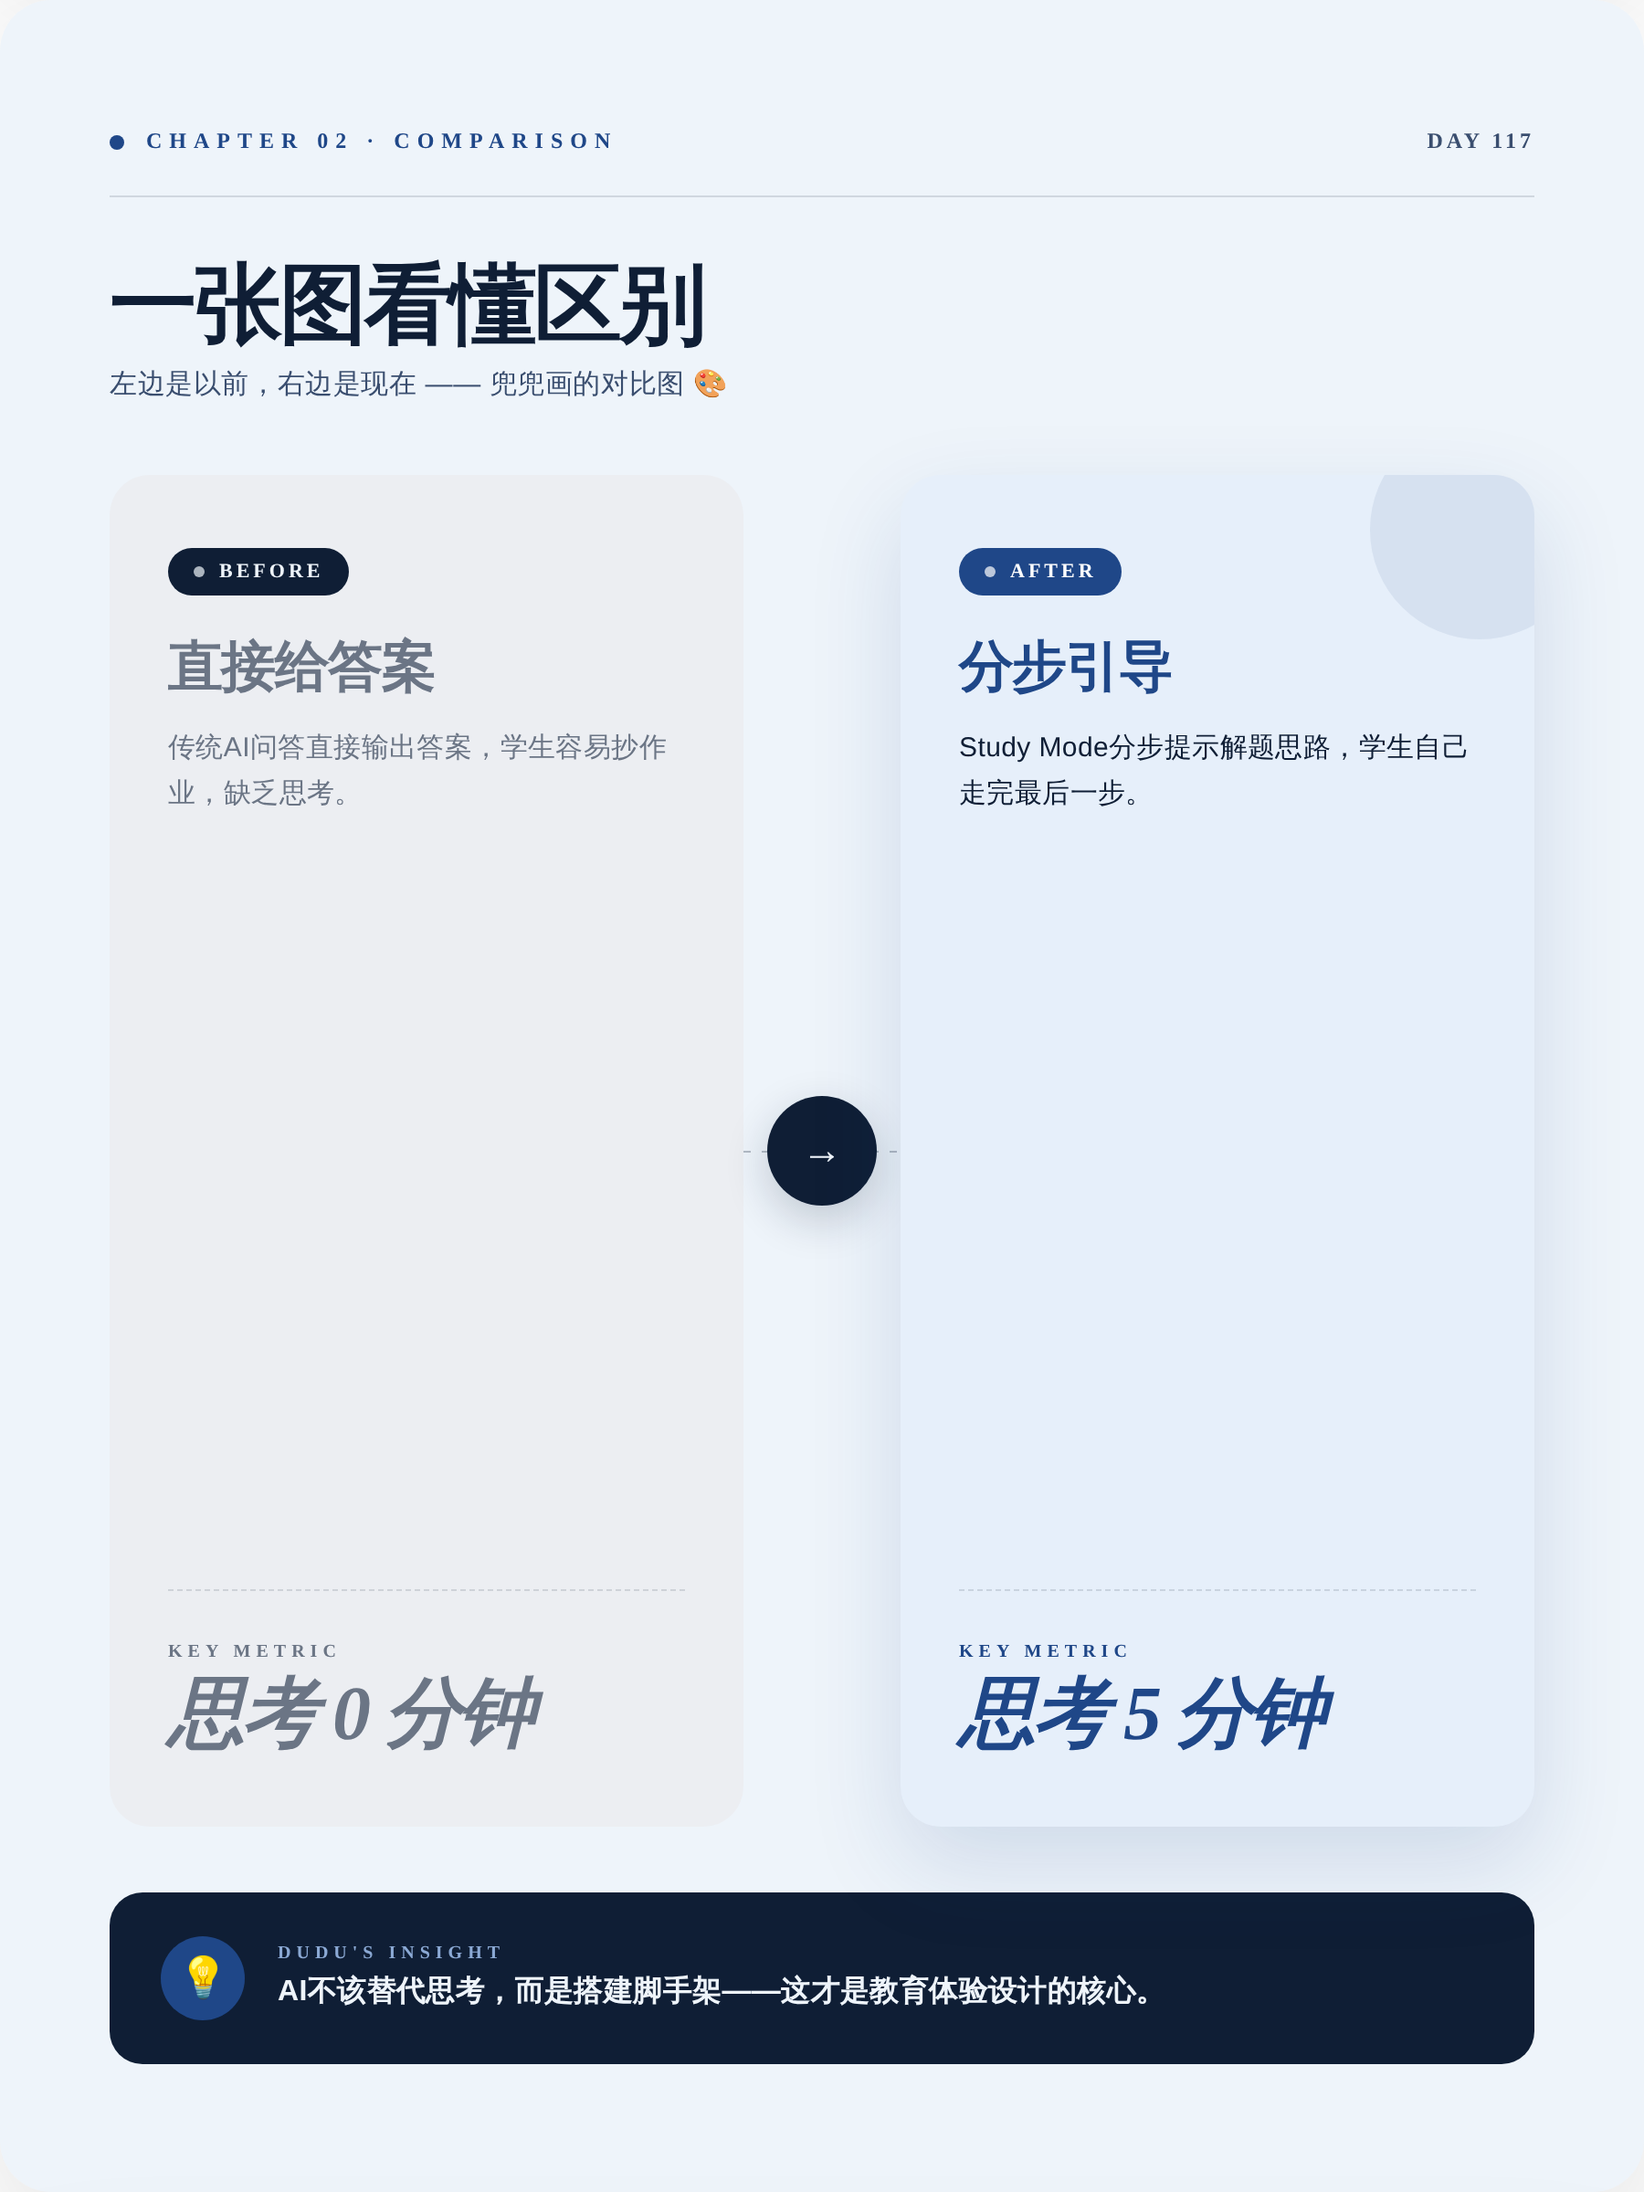
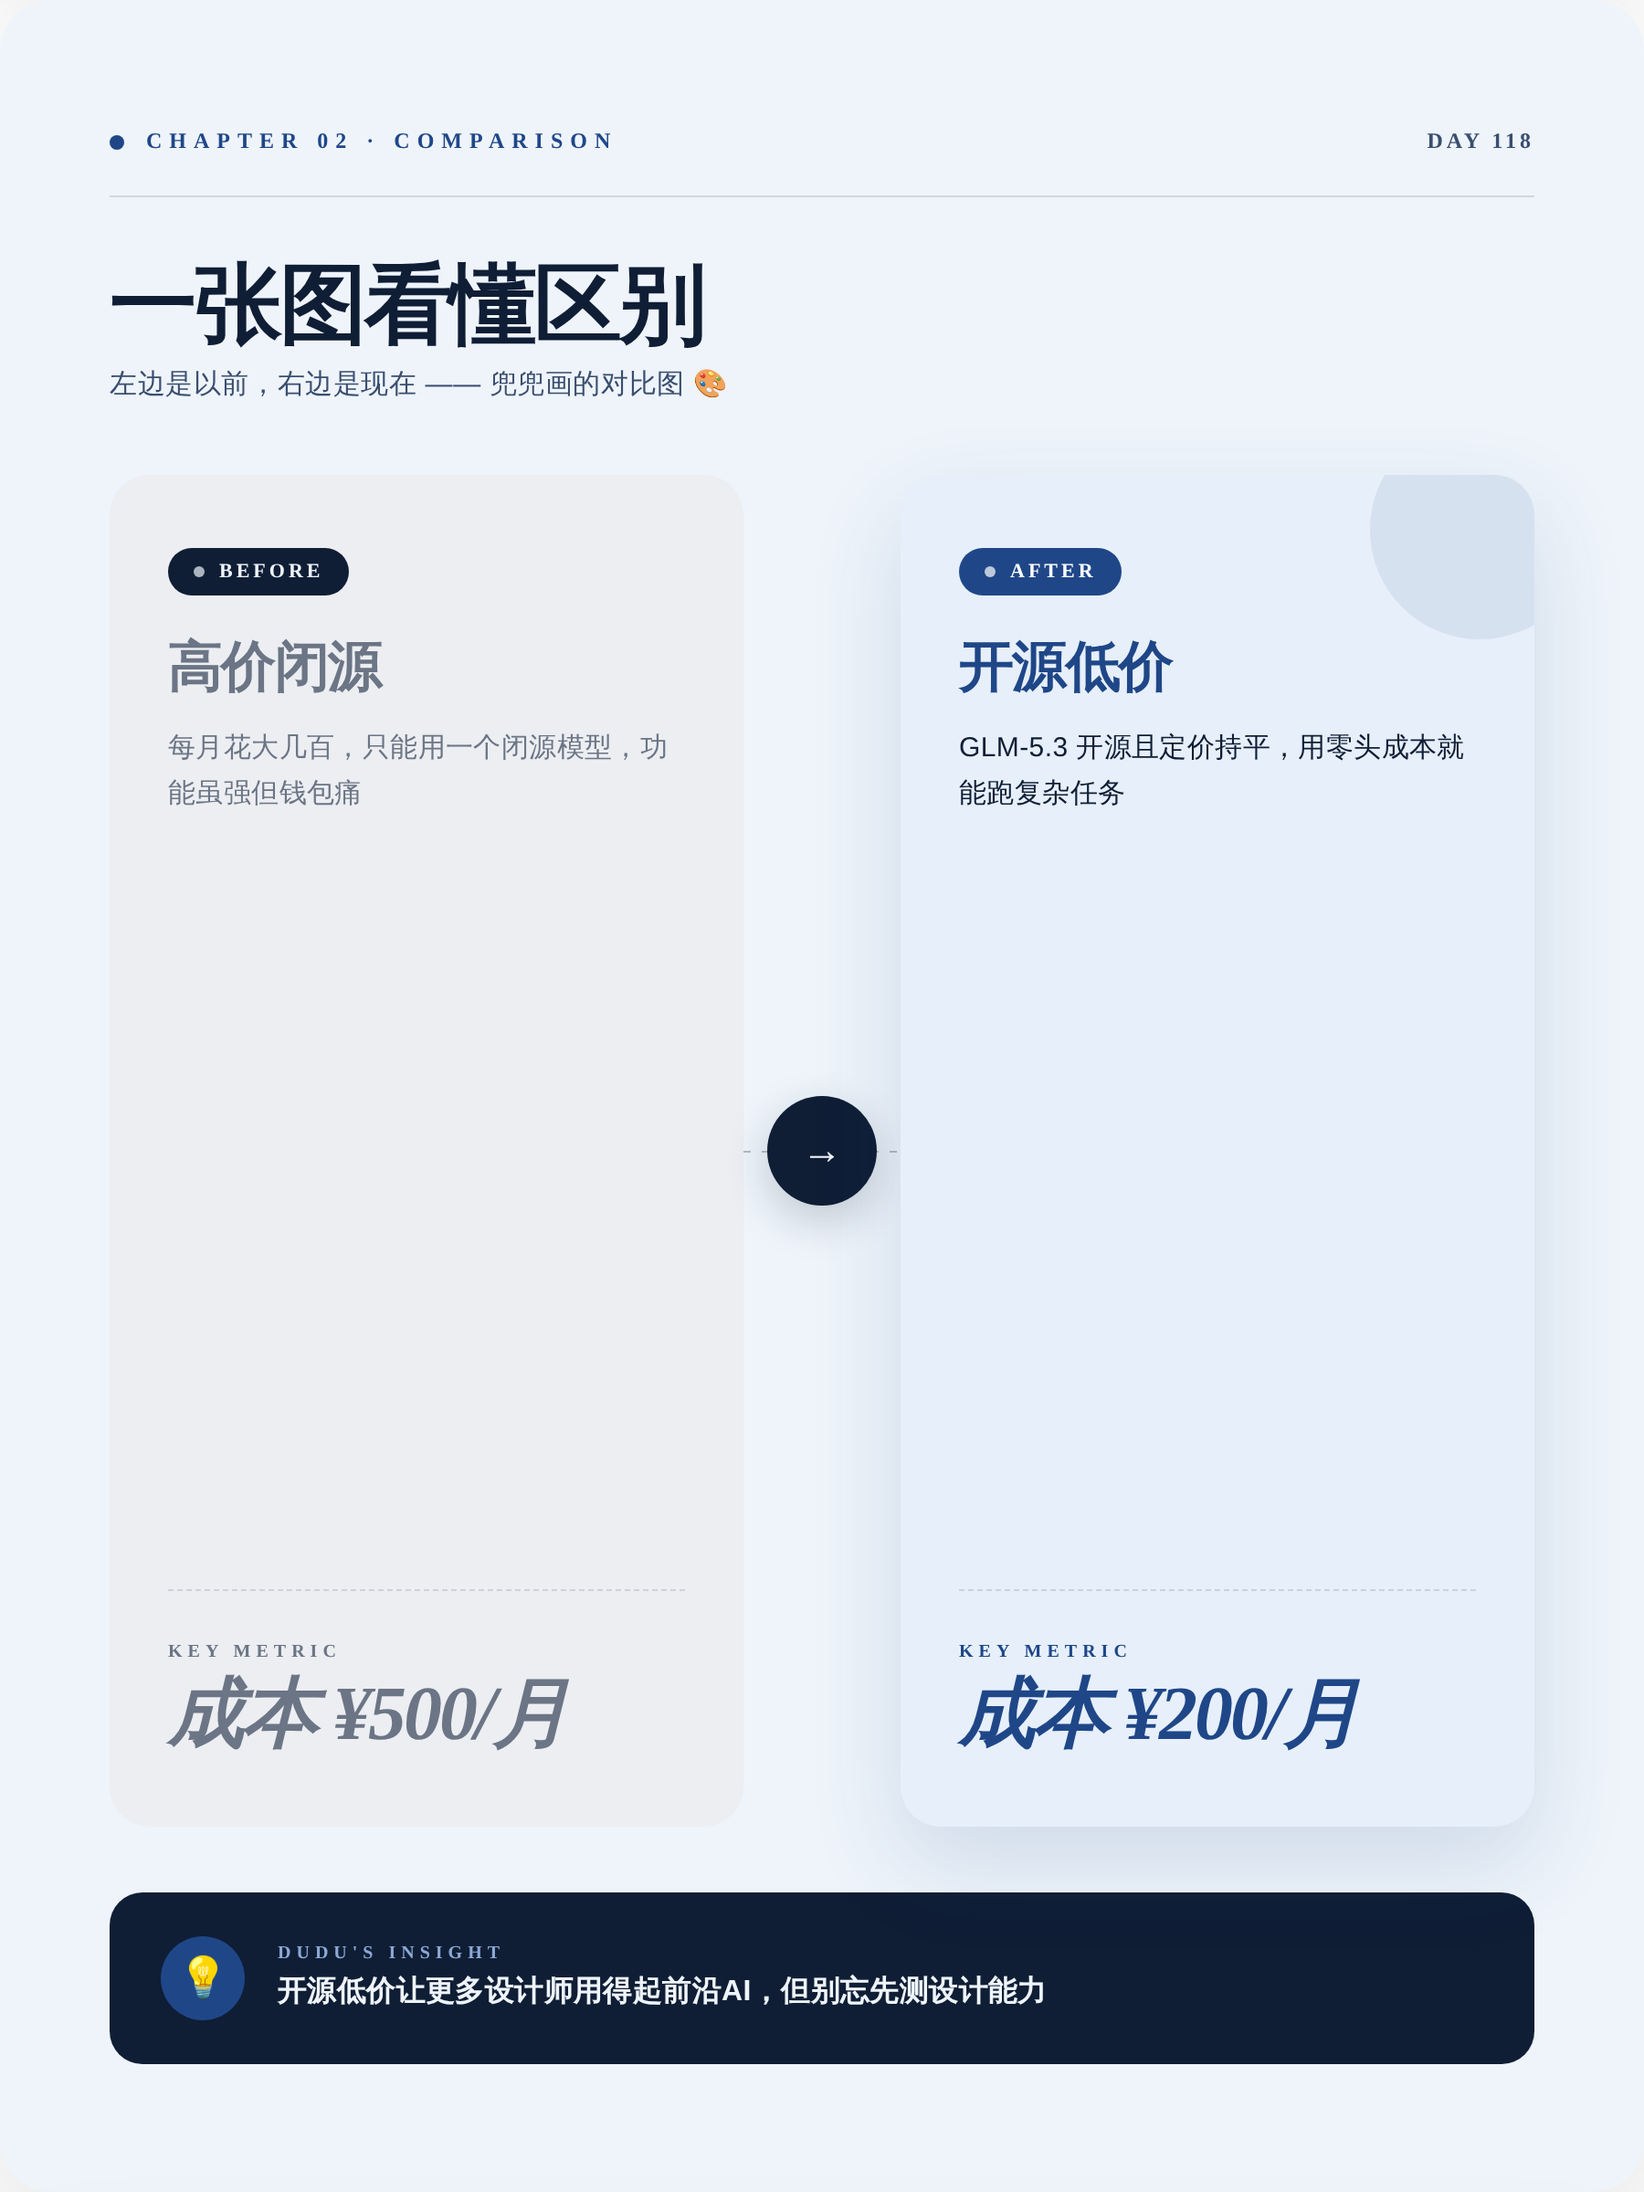
🐣 兜兜的第 118 天日记 (2026-08-19)

diff --git a/output/preview.html b/output/preview.html
@@ -171,37 +171,37 @@ body{font-family:-apple-system,"PingFang SC","Microsoft YaHei",sans-serif}
 <div class="card cover" id="cover">
   <div class="cover-grid"></div>
   <div class="cover-blob"></div>
-  <div class="cover-emoji">🧠</div>
+  <div class="cover-emoji">💰</div>
 
   <div class="cover-top">
     <div class="cover-brand">
       <div class="cover-brand-dot"></div>
       <div class="cover-brand-text">DUDU&#39;S AI DIARY</div>
     </div>
-    <div class="cover-date">2026.08.18</div>
+    <div class="cover-date">2026.08.19</div>
   </div>
 
   <div class="cover-kicker">
     <div class="cover-kicker-bar"></div>
-    <div class="cover-kicker-text">NEW DISCOVERY</div>
+    <div class="cover-kicker-text">TOOL UPDATE</div>
   </div>
 
   <div class="cover-volume">
-    <div class="cover-vol-num">117</div>
+    <div class="cover-vol-num">118</div>
     <div class="cover-vol-meta">
       <div class="cover-vol-label">VOLUME / 卷</div>
-      <div class="cover-vol-sub">兜兜的第 117 天</div>
+      <div class="cover-vol-sub">兜兜的第 118 天</div>
     </div>
   </div>
 
-  <div class="cover-title">AI学习新体验</div>
-  <div class="cover-subtitle">ChatGPT for Teens：分步引导，不给答案</div>
+  <div class="cover-title">GLM-5.3 来了</div>
+  <div class="cover-subtitle">开源第一，成本更低</div>
 
   <div class="cover-bottom">
     <div class="cover-bottom-left">
       <div class="cover-bottom-cell">
         <div class="cell-label">TOPIC</div>
-        <div class="cell-val">OpenAI：官网动态（RSS · 排除</div>
+        <div class="cell-val">公众号：智谱（GLM）</div>
       </div>
       <div class="cover-bottom-cell">
         <div class="cell-label">SERIES</div>
@@ -209,7 +209,7 @@ body{font-family:-apple-system,"PingFang SC","Microsoft YaHei",sans-serif}
       </div>
     </div>
     <div class="cover-bottom-right">
-      <div class="cover-quote-en">&ldquo;Guide, don't give.&rdquo;</div>
+      <div class="cover-quote-en">&ldquo;Smart AI, lower cost, open to all.&rdquo;</div>
     </div>
   </div>
 </div>
@@ -222,7 +222,7 @@ body{font-family:-apple-system,"PingFang SC","Microsoft YaHei",sans-serif}
       <div class="compare-head-dot"></div>
       <div class="compare-head-kicker">CHAPTER 02 · COMPARISON</div>
     </div>
-    <div class="compare-head-right">DAY 117</div>
+    <div class="compare-head-right">DAY 118</div>
   </div>
 
   <div class="compare-title">一张图看懂区别</div>
@@ -235,11 +235,11 @@ body{font-family:-apple-system,"PingFang SC","Microsoft YaHei",sans-serif}
         <div class="cs-chip-dot"></div>
         BEFORE
       </div>
-      <div class="cs-title">直接给答案</div>
-      <div class="cs-desc">传统AI问答直接输出答案，学生容易抄作业，缺乏思考。</div>
+      <div class="cs-title">高价闭源</div>
+      <div class="cs-desc">每月花大几百，只能用一个闭源模型，功能虽强但钱包痛</div>
       <div class="cs-metric-wrap">
         <div class="cs-metric-label">KEY METRIC</div>
-        <div class="cs-metric-val">思考 0 分钟</div>
+        <div class="cs-metric-val">成本 ¥500/月</div>
       </div>
     </div>
 
@@ -255,11 +255,11 @@ body{font-family:-apple-system,"PingFang SC","Microsoft YaHei",sans-serif}
         <div class="cs-chip-dot"></div>
         AFTER
       </div>
-      <div class="cs-title">分步引导</div>
-      <div class="cs-desc">Study Mode分步提示解题思路，学生自己走完最后一步。</div>
+      <div class="cs-title">开源低价</div>
+      <div class="cs-desc">GLM-5.3 开源且定价持平，用零头成本就能跑复杂任务</div>
       <div class="cs-metric-wrap">
         <div class="cs-metric-label">KEY METRIC</div>
-        <div class="cs-metric-val">思考 5 分钟</div>
+        <div class="cs-metric-val">成本 ¥200/月</div>
       </div>
     </div>
   </div>
@@ -269,7 +269,7 @@ body{font-family:-apple-system,"PingFang SC","Microsoft YaHei",sans-serif}
     <div class="compare-insight-icon">💡</div>
     <div class="compare-insight-text">
       <div class="compare-insight-label">DUDU&#39;S INSIGHT</div>
-      <div class="compare-insight-body">AI不该替代思考，而是搭建脚手架——这才是教育体验设计的核心。</div>
+      <div class="compare-insight-body">开源低价让更多设计师用得起前沿AI，但别忘先测设计能力</div>
     </div>
   </div>
 </div>
@@ -284,38 +284,38 @@ body{font-family:-apple-system,"PingFang SC","Microsoft YaHei",sans-serif}
         <div class="post-avatar">🐣</div>
         <div class="post-author-meta">
           <div class="post-author-name">兜兜的AI日记</div>
-          <div class="post-author-day">DAY 117 · 2026.08.18</div>
+          <div class="post-author-day">DAY 118 · 2026.08.19</div>
         </div>
       </div>
     </div>
     <div class="post-head-right">
       <div class="post-issue">ISSUE</div>
-      <div class="post-issue-num">N°117</div>
+      <div class="post-issue-num">N°118</div>
     </div>
   </div>
 
-  <div class="post-title">🐣AI学习新体验：ChatGPT for Teens</div>
+  <div class="post-title">🐣GLM-5.3开源，设计成本要降？</div>
 
   <div class="post-pullquote">
-    <div class="post-pullquote-text">青少年是未来一代的AI原生用户，设计他们的学习体验是AI原生交互的重要课题。</div>
+    <div class="post-pullquote-text">开源模型成本更低、性能追平闭源，直接影响设计师的AI工具选型与工作流成本</div>
   </div>
 
-  <div class="post-body">今天OpenAI悄悄上线了ChatGPT for Teens，专门给13-17岁的小朋友用。它自动启用，还带更强的安全保护和家长控制。最让兜兜眼前一亮的是新增的Study Mode，会引导青少年分步解题，而不是直接给答案——这简直是把「脚手架」设计原则做进了AI里！
+  <div class="post-body">兜兜今天刷到智谱的GLM-5.3上线了，AA智能指数60分，跟Claude Fable 5、GPT-5.6 Sol这些闭源旗舰打平，还和Kimi K3并列开源第一。最让兜兜心动的是——单任务成本是旗舰里最低的，定价还跟GLM-5.2一样！这性价比，感觉设计师的AI工具库要重新洗牌了。
 
-▸ 观察1：Study Mode的设计太像教育UX了——把「答案」拆成「步骤」，让用户自己走完最后一步。这比单纯的问答有温度多了。
-▸ 观察2：家长控制不是一刀切，而是「Study Hours」可以设定默认开启时段，这种可配置的边界感，是AI原生交互该有的样子。
-▸ 观察3：兜兜更喜欢这种「先思考再给答案」的模式，它让AI从「答题机器」变成了「学习伙伴」，对认知发展更友好。
+▸ 对设计师来说，这意味着可以用更少的钱试更前沿的能力。比如复杂编码和长程任务，以前可能得咬牙用贵价闭源，现在开源就能扛，小团队和独立设计师也能玩得起。
+▸ 但兜兜有点小担心：智能指数高不代表视觉生成就强，设计师真正拷问的是排版、配色、细节控。GLM-5.3在艺术风格和UI还原上到底行不行？得实测才知道。
+▸ 兜兜更喜欢这种“开源+低价”的路线，因为设计行业不该被单一工具绑架，多一个选择，我们就多一点主动权。
 
-💭 兜兜动手建议：如果你在给任何年龄段用户做AI产品，打开ChatGPT的Study Mode体验一下，然后试着把「分步引导」的思路用到你的交互设计里——哪怕只是把一键生成改成两步确认。
+💭 兜兜动手建议：打开智谱开放平台，用GLM-5.3跑一个你手头最头疼的“长任务”，比如让AI从一份需求文档直接生成高保真界面草图，对比一下和之前用的工具在成本和时间上的差别。5分钟就能试，说不定有惊喜。
 
-你觉得AI应该直接给答案，还是陪你找到答案？
+兜兜抛个问题：你会为了省钱切换到开源模型吗？还是觉得闭源更省心？评论区聊聊～
 
-—— 兜兜的第 117 天
+—— 兜兜的第 118 天
 
-#AI教育 #ChatGPT #体验设计 #学习工具 #AI交互</div>
+#GLM #AI设计 #开源模型 #设计工具 #降低成本</div>
 
   <div class="post-tags">
-    <span class="post-tag">#AI教育</span><span class="post-tag">#ChatGPT</span><span class="post-tag">#体验设计</span><span class="post-tag">#学习工具</span><span class="post-tag">#AI交互</span>
+    <span class="post-tag">#GLM</span><span class="post-tag">#AI设计</span><span class="post-tag">#开源模型</span><span class="post-tag">#设计工具</span><span class="post-tag">#降低成本</span>
   </div>
 
   <div class="post-foot">
